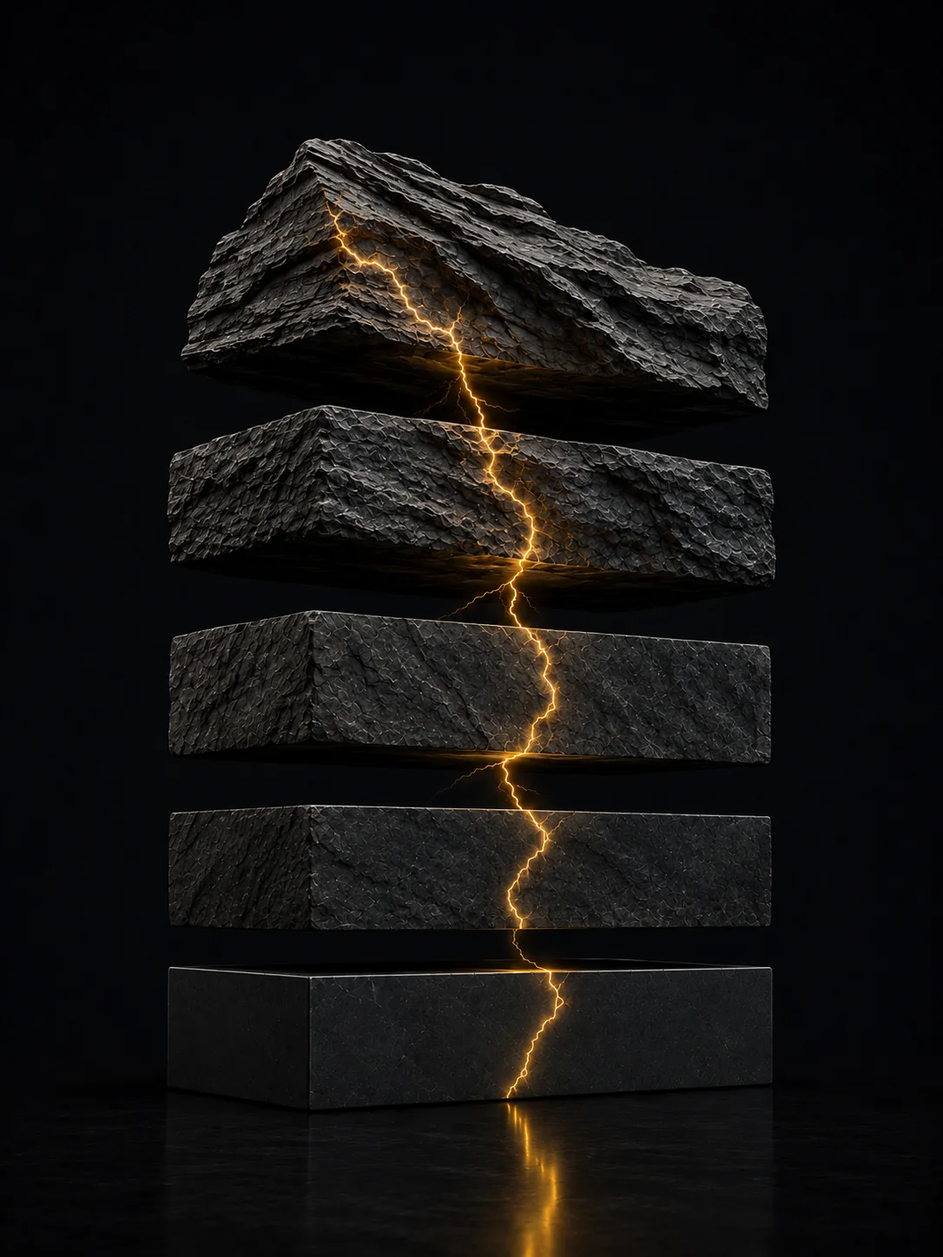
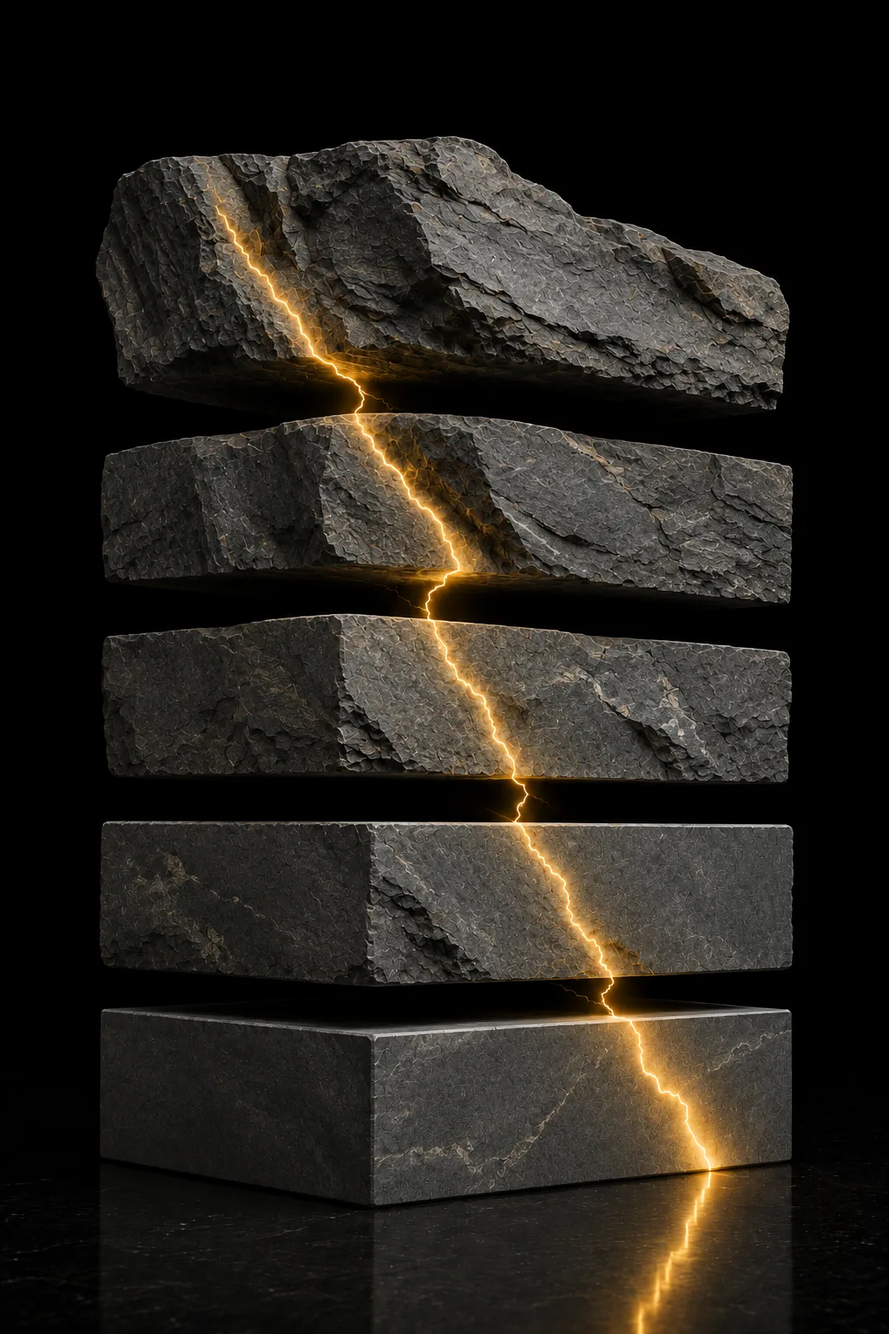
Заменить схему метода и кадр первого экрана, убрать белые уголки
Две схемы grounds.svg и loops.svg заменены одним кадром method-map.webp:
«Путь одного решения» сверху, «Постоянный поток» и «Контур проверки»
снизу. Текстовый эквивалент больше не подменяет картинку на узких
экранах, а лежит в спойлере — кадр показан на любой ширине.

У исходника скруглённые углы радиусом 10px на белом листе, поэтому за
дугой оставались четыре белых пятна 10×10, и на чёрной странице они
читались как брак. Кадр пересобран из исходника, по 20px в каждом углу
перерисованы аналитически: граница скруглённого прямоугольника, кромка
38/43/49 шириной 1px, дальше поле карточки, снаружи дуги альфа 0.
Двадцать, а не десять, потому что JPEG даёт звон вокруг резкой границы
белого и тёмного ещё на 4-6px внутрь. Замер: все четыре угла alpha 0,
самый светлый видимый пиксель в углу 44-48 — это ровно кромка.

Кадр первого экрана заменён новой генерацией 1024×1536: те же пять плит
и золотая трещина, но полированный низ и отражение проработаны сильнее.
Пропорция ровно 2/3, совпадает с aspect-ratio на .hero-visual. Кайма
кадра измерена по восьми точкам и даёт ровно 0/0/0, поэтому --graphite
опущен до чистого чёрного: прежние 3/4/7 давали по границе кадра еле
заметную рамку.

diff --git a/index.html b/index.html
@@ -31,7 +31,7 @@
      телефоне красит свою полосу вокруг страницы, и расхождение видно как
      кант другого оттенка. 10.08.2026 обновлено вместе с переменной,
      прежнее значение: #0E0F11. -->
-<meta name="theme-color" content="#0C0B0D">
+<meta name="theme-color" content="#000000">
 <link rel="stylesheet" href="styles.css">
 </head>
 <body>
@@ -159,24 +159,26 @@
       04 Доказательство — Оставляем то, что работает. Усиливаем эффект.
       05 Стандартизация — Превращаем в модуль. Масштабируем как стандарт. -->
  <div class="hero-visual">
-   <!-- 14.08.2026, замена файла первого экрана по решению владельца. Кадр
-        вертикальный, 1086×1448 — ровно 3:4 (прежний файл был 1122×1402, 4:5,
-        поэтому aspect-ratio у .hero-visual переставлен вместе с картинкой).
-        Фон измерен по восьми зонам (четыре угла, центры сверху и снизу, оба
-        боковых края) уже после сжатия в webp: углы дают 2/2/5 … 4/4/5, боковые
-        края 3/5/7 … 4/6/8, вверху по центру 3/5/8. Виньетки нет, но фон и не
-        ровный: между углом и боковым краем расходится примерно на 4 из 255.
-        Важное отличие от прежнего файла: он совпадал с --graphite страницы
-        (12/11/13) до половины единицы, и граница кадра не читалась вовсе.
-        Новый темнее фона страницы примерно на 8–10 из 255, поэтому кадр
-        виден на странице тёмным прямоугольником. Решение по этому расхождению
-        за владельцем: либо страница подгоняется под кадр (как 10.08.2026,
-        --graphite опускается примерно до 030305), либо краям кадра
-        возвращается растворение маской. До решения не трогается ни то, ни
-        другое.
+   <!-- 15.08.2026, замена файла первого экрана по решению владельца. Кадр
+        вертикальный, 1024×1536 — ровно 2:3 (прежний файл был 1086×1448, 3:4,
+        поэтому aspect-ratio у .hero-visual переставлен вместе с картинкой; он
+        задан в трёх местах styles.css, менять надо все три).
+        Фон измерен по восьми зонам после сжатия в webp: семь точек каймы —
+        четыре угла, центр сверху, оба боковых края — дают ровно 0/0/0, без
+        расхождения между углом и краем. Восьмая, центр снизу, приходится на
+        отражение (31/33/30) и в среднее не идёт. Это первый файл с идеально
+        ровным фоном: у прежнего между углом и краем расходилось на 4 из 255.
+        Поэтому --graphite страницы опущен до чистого чёрного — вопрос, который
+        14.08.2026 оставался за владельцем, закрыт в пользу подгонки страницы
+        под кадр, а не растворения краёв маской.
         Снизу поля нет: отражение на полу доходит до последней строки файла,
         поэтому маска нижнего края у .hero-visual img остаётся нужна и рамку
         шире кадра ставить по-прежнему нельзя.
+        17.08.2026 кадр заменён на новую генерацию владельца: те же пять плит
+        и золотая трещина, но полированный низ и отражение проработаны сильнее.
+        1024×1536, webp q83, 173 КБ. Пропорция ровно 2/3 — совпадает с
+        aspect-ratio на .hero-visual, подгонять ничего не пришлось. Фон краёв
+        0/0/0 … 2/2/2, чернее прежнего, --graphite менять не нужно.
         width/height здесь — размеры файла, они держат место до загрузки;
         видимая пропорция задана aspect-ratio на .hero-visual.
         Прежние генерации сохранены рядом: hero-layers-v1.webp (слои-фильтры),
@@ -184,8 +186,10 @@
         hero-layers-v4.webp (четыре бруска с золотой трещиной, стояла
         10.08.2026), hero-layers-v5.webp (те же пять плит, но без пола и без
         отражения, стояла 10.08.2026), hero-layers-v6.webp (пять плит с полом
-        и отражением, 1122×1402, стояла с 10.08.2026 по 14.08.2026). -->
-   <img src="assets/hero-layers.webp" width="1086" height="1448"
+        и отражением, 1122×1402, стояла с 10.08.2026 по 14.08.2026),
+        hero-layers-v7.webp (1086×1448, стояла 14-15.08.2026),
+        hero-layers-v8.webp (1024×1536, стояла 15-17.08.2026). -->
+   <img src="assets/hero-layers.webp" width="1024" height="1536"
         alt="Пять каменных плит, разведённых по вертикали над отражающим полом: нижние гладкие и точные, верхняя рваная и необработанная, сквозь все проходит светящаяся золотая трещина и продолжается отражением на полу">
  </div>
 </section>
@@ -503,41 +507,79 @@
        «Сделать результат повторяемым. Результат теста → повторная проверка →
        границы применимости → паттерн → масштаб → стандарт.» -->
 
-  <figure class="scheme">
+  <!-- 14.08.2026, замена по решению владельца. Здесь стояли две отдельные
+       фигуры .scheme: assets/grounds.svg («Путь одного решения» с источниками
+       оснований) и assets/loops.svg («Постоянный поток» и «Контур проверки»).
+       Владелец прислал слайд, в котором обе схемы собраны в один кадр и
+       отрисованы в материале бренд-кейса. Содержание совпадает узел в узел,
+       поэтому это замена, а не третья схема: два кадра с одинаковым смыслом
+       на одном экране читались бы как повтор.
+       Прежние файлы assets/grounds.svg и assets/loops.svg с диска не удалены —
+       лежат рядом на случай возврата, как и прежние генерации первого экрана.
+
+       Кадр несёт собственную рамку (светлая кромка в 1px по краю блоков),
+       поэтому фигура помечена .scheme-map: рамка, подложка и внутреннее поле
+       от .scheme img на ней сняты, иначе получается рамка в рамке.
+
+       17.08.2026 кадр заменён на новую отрисовку владельца (Path of One
+       Decision), 1664×962, webp q86, 76 КБ. Прежний файл сохранён рядом как
+       assets/method-map-v1.webp (1691×930, стоял 14-17.08.2026). Содержание
+       то же узел в узел, поменялись материал и типографика.
+       Фон нового кадра измерен по восьми точкам после сжатия: 20/21/25 …
+       36/40/46 — он светлее чёрной страницы, поэтому кадр читается на ней
+       как отдельная карточка со своим полем, а не сливается с фоном, как
+       прежний (0/0/0 … 5/4/7). Это осознанно оставлено: схема — вставка,
+       её обособленность работает на чтение.
+
+       18.08.2026 убраны белые уголки. Исходник — скруглённый прямоугольник
+       с радиусом 10px на белом листе, поэтому за дугой оставались четыре
+       белых пятна 10×10, и на чёрной странице они читались как брак. Кадр
+       пересобран из исходника (не из webp, чтобы не жать дважды): по 20px
+       в каждом углу перерисованы аналитически — граница скруглённого
+       прямоугольника, кромка 38/43/49 шириной 1px, дальше поле карточки,
+       снаружи дуги альфа 0. Двадцать, а не десять, потому что JPEG-исходник
+       даёт звон вокруг резкой границы белого и тёмного ещё на 4-6px внутрь.
+       Теперь webp с альфой, 77,5 КБ: за дугой видно страницу, чем бы она
+       ни была. Замер в браузере: все четыре угла alpha 0, самый светлый
+       видимый пиксель в углу 44-48 — это ровно кромка, белого нет.
+
+       Текстовый эквивалент прежде показывался вместо схемы на экранах уже
+       999px и на телефоне занимал два экрана подряд — именно его владелец
+       назвал таблицами. Теперь на любой ширине показан кадр, а текст ушёл в
+       спойлер: ничего не потеряно, но экран им не забит. На узкой ширине
+       кадр открывается в полный размер по нажатию — тот же .shot-link, что у
+       снимков таблиц в секции #case. -->
+  <figure class="scheme scheme-map">
     <div class="scheme-wrap">
-      <img src="assets/grounds.svg" alt="Путь одного решения: запрос бизнеса, разрыв в метрике, основания, гипотеза с числом, концепт, артефакт, результат теста. В основания входят данные бизнеса, отзывы и обращения, исследование аудитории, рынок и конкуренты, знания компании, прошлые эксперименты." width="1200" height="540" loading="lazy">
+      <a class="shot-link" href="assets/method-map.webp">
+        <img src="assets/method-map.webp" width="1664" height="962" loading="lazy"
+             alt="Схема метода в двух частях. Сверху «Путь одного решения»: запрос бизнеса, разрыв в метрике, основания, гипотеза с числом, концепт, артефакт, результат теста; в основания входят данные бизнеса, отзывы и обращения, исследование аудитории, рынок и конкуренты, знания компании, прошлые эксперименты. Снизу слева «Постоянный поток»: контент и кампании, дизайн и продакшн, бренд и гайды, типовые задачи. Снизу справа «Контур проверки»: сигнал, гипотеза, артефакт, факт, доказательство, паттерн — и стандарт, который возвращается в работу постоянного потока; неподтверждённая гипотеза возвращается к гипотезе.">
+      </a>
     </div>
-    <div class="scheme-list">
-      <ol class="ladder ladder-flow">
-        <li><b>Запрос бизнеса</b><span>с чем пришли</span></li>
-        <li><b>Разрыв в метрике</b><span>где именно теряем</span></li>
-        <li><b>Основания</b><span>данные бизнеса · отзывы и обращения · исследование аудитории · рынок и конкуренты · знания компании · прошлые эксперименты</span></li>
-        <li><b>Гипотеза с числом</b><span>что изменится и на сколько</span></li>
-        <li><b>Концепт</b><span>способ проверить одну гипотезу</span></li>
-        <li><b>Артефакт</b><span>то, что уходит на живой трафик</span></li>
-        <li><b>Результат теста</b><span>подтвердилось или нет</span></li>
-      </ol>
-    </div>
-    <figcaption>Идея не первый шаг. Сначала — основания: то, на чём решение стоит и что можно предъявить.</figcaption>
+    <figcaption>Идея не первый шаг. Сначала — основания: то, на чём решение стоит и что можно предъявить. И эксперимент существует не ради эксперимента: он либо улучшает постоянный поток, либо показывает, что масштабировать нечего.</figcaption>
+
+    <details class="scheme-text">
+      <summary>Тот же путь текстом</summary>
+      <div class="scheme-list">
+        <ol class="ladder ladder-flow">
+          <li><b>Запрос бизнеса</b><span>с чем пришли</span></li>
+          <li><b>Разрыв в метрике</b><span>где именно теряем</span></li>
+          <li><b>Основания</b><span>данные бизнеса · отзывы и обращения · исследование аудитории · рынок и конкуренты · знания компании · прошлые эксперименты</span></li>
+          <li><b>Гипотеза с числом</b><span>что изменится и на сколько</span></li>
+          <li><b>Концепт</b><span>способ проверить одну гипотезу</span></li>
+          <li><b>Артефакт</b><span>то, что уходит на живой трафик</span></li>
+          <li><b>Результат теста</b><span>подтвердилось или нет</span></li>
+        </ol>
+        <!-- 10.08.2026, владелец: слово «гайды» убрано везде — заменено на «нормы и
+             стандарты» (или «норма» по контексту). Прежняя редакция строки ниже:
+             «...бренд и гайды · типовые задачи.» -->
+        <p class="body-text"><b>Постоянный поток:</b> контент и кампании · дизайн и продакшн · бренд, нормы и стандарты · типовые задачи.</p>
+        <p class="body-text"><b>Контур проверки:</b> сигнал → гипотеза → артефакт → факт → доказательство → паттерн → стандарт.</p>
+        <p class="body-text">Стандарт возвращается в постоянный поток и работает дальше без отдельного решения. Неподтверждённый факт возвращает к гипотезе.</p>
+      </div>
+    </details>
   </figure>
 
-  <!-- ПЕРЕНЕСЕНО 09.08.2026 со второго экрана: владелец сказал, что после
-       уравнения «культура экспериментов = рост» нужна конкретика про
-       человека, а не ещё две схемы. Здесь, среди схем, они на своём месте. -->
-  <figure class="scheme">
-    <div class="scheme-wrap">
-      <img src="assets/loops.svg" alt="Два контура работы: постоянный поток задач слева и контур проверки справа. Подтверждённый результат превращается в стандарт и возвращается в постоянный поток." width="1200" height="580" loading="lazy">
-    </div>
-    <div class="scheme-list">
-      <!-- 10.08.2026, владелец: слово «гайды» убрано везде — заменено на «нормы и
-           стандарты» (или «норма» по контексту). Прежняя редакция строки ниже:
-           «...бренд и гайды · типовые задачи.» -->
-      <p class="body-text"><b>Постоянный поток:</b> контент и кампании · дизайн и продакшн · бренд, нормы и стандарты · типовые задачи.</p>
-      <p class="body-text"><b>Контур проверки:</b> сигнал → гипотеза → артефакт → факт → доказательство → паттерн → стандарт.</p>
-      <p class="body-text">Стандарт возвращается в постоянный поток и работает дальше без отдельного решения. Неподтверждённый факт возвращает к гипотезе.</p>
-    </div>
-    <figcaption>Эксперимент существует не ради эксперимента: он либо улучшает постоянный поток, либо показывает, что масштабировать нечего.</figcaption>
-  </figure>
 
   <!-- Была тезисом этого раздела (золотым моно вверху). Тезис заняла подпись
        владельца под триадой, а фраза слишком сильная, чтобы её потерять:
@@ -1056,6 +1098,7 @@
     ['.cta-mid-line',        14,    -8,   null,   0.50, 'power2.out',      0,         0],
     ['.link-row',            12,    -7,   null,   0.46, 'power2.out',   0.16,         0],
     ['.facet',               18,   -11,   1.04,   0.60, 'power3.out',      0,      0.08],
+    ['.scheme',              26,   -16,   1.02,   0.80, 'power3.out',      0,         0],
     ['.case-media',          26,   -16,   1.03,   0.80, 'power3.out',      0,         0],
     ['.case-body',           16,   -10,   null,   0.55, 'power2.out',   0.08,         0],
     ['.walkthrough',         26,   -16,   1.02,   0.80, 'power3.out',      0,         0],

diff --git a/styles.css b/styles.css
@@ -21,9 +21,16 @@
      единицы, как было с прежним файлом, а в пределах этих четырёх.
      Переменная задаёт ещё шапку, подложки плит и градиенты масок — они
      подхватывают новое значение сами.
-     Прежние значения для отката: #0C0B0D (под hero-layers-v6.webp),
-     до него #0E0F11. */
-  --graphite: #030407;
+     15.08.2026, ещё одна замена кадра: новая генерация 1024×1536 измерена по
+     тем же восьми точкам после сжатия — все семь точек каймы дают 0/0/0, ровно
+     чёрный, без расхождения между углом и боковым краем (восьмая, низ по
+     центру, приходится на отражение и в среднее не идёт). Поэтому переменная
+     опущена до чистого чёрного: прежние 3/4/7 были светлее кадра на 4-7 из 255
+     и давали по границе кадра еле заметную рамку. Побочно градиенты масок
+     нижнего края теперь сходятся с кадром точно, а не в пределах допуска.
+     Прежние значения для отката: #030407 (под hero-layers-v7.webp),
+     #0C0B0D (под hero-layers-v6.webp), до него #0E0F11. */
+  --graphite: #000000;
   --charcoal: #1A1C1F;
   --stone: #2B2E33;
   --slate: #3B3F44;
@@ -417,8 +424,9 @@ main {
   margin: var(--space-6) 0;
 }
 
-/* Схемы-иллюстрации 08.08.2026: assets/grounds.svg (#method) и
-   assets/loops.svg (#system). Рамка и подложка — тот же приём, что у
+/* Схема-иллюстрация в #method. 08.08.2026 их было две — assets/grounds.svg и
+   assets/loops.svg; 14.08.2026 обе заменены одним кадром assets/method-map.webp
+   (модификатор .scheme-map ниже). Рамка и подложка — тот же приём, что у
    .diagram-wrap, чтобы схема без спойлера выглядела частью одной страницы. */
 .scheme {
   margin: var(--space-9) 0;
@@ -444,20 +452,31 @@ main {
   max-width: 60ch;
 }
 
-/* Текстовый эквивалент схем grounds.svg и loops.svg для узких экранов —
-   тот же приём и тот же порог, что у .diagram-wrap/.diagram-list. */
-.scheme-list {
-  display: none;
+/* 14.08.2026: кадр assets/method-map.webp, заменивший обе схемы, несёт
+   собственную светлую кромку и собственные поля внутри блоков. Рамка,
+   подложка и внутреннее поле от .scheme img на нём сняты — иначе выходит
+   рамка в рамке, а тёмная подложка --charcoal светлее самого кадра и
+   проступает по краю полосой. */
+.scheme-map img {
+  background: none;
+  border: 0;
+  padding: 0;
+  max-width: 1200px;
 }
 
-@media (max-width: 999px) {
-  .scheme-wrap {
-    display: none;
-  }
+/* Текстовый эквивалент схемы. До 14.08.2026 он подменял собой картинку на
+   всех ширинах до 999px: схема пряталась, а вместо неё разворачивались семь
+   пунктов лестницы и три абзаца — два экрана подряд на телефоне. Владелец
+   назвал это таблицами и попросил вместо них кадр.
+   Теперь кадр показан на любой ширине, а текст лежит в спойлере: содержание
+   не потеряно и доступно и без картинок, но экран им не занят. Кадр плотный,
+   и на узкой ширине его открывают в полный размер по .shot-link. */
+.scheme-text {
+  margin-top: var(--space-4);
+}
 
-  .scheme-list {
-    display: block;
-  }
+.scheme-text .scheme-list {
+  margin-top: var(--space-4);
 }
 
 /* Лестница «факт → доказательство → паттерн → стандарт» в #system.
@@ -1453,15 +1472,16 @@ details:last-child {
      56% от её же 515. Поэтому предел задан абсолютом с оглядкой на окно:
      600px при контентной ширине 1080px оставляет слева не меньше 460px под
      текст, а 46vw подхватывает узкие окна, где 600px были бы слишком много. */
-  /* 14.08.2026: файл первого экрана заменён на новую генерацию, 1086×1448 —
-     это ровно 3:4, а не 4:5. Пропорция рамки повторяет пропорцию файла по
-     тому же правилу, что записано выше: пока снизу есть отражение, рамку шире
-     кадра ставить нельзя, иначе cover срежет низ и отражение пропадёт. При
-     4:5 срез составил бы по 3,1% сверху и снизу — как раз по отражению,
-     которое доходит до последней строки файла. Прежнее значение для отката:
-     aspect-ratio: 4 / 5 (оно было подобрано под hero-layers.webp 1122×1402,
-     тот файл сохранён рядом как hero-layers-v6.webp). */
-  aspect-ratio: 3 / 4;
+  /* 15.08.2026: файл первого экрана снова заменён, теперь 1024×1536 — ровно
+     2:3. Пропорция рамки повторяет пропорцию файла по тому же правилу, что
+     записано выше: пока снизу есть отражение, рамку шире кадра ставить нельзя,
+     иначе cover срежет низ и отражение пропадёт. Оставь здесь прежние 3:4 —
+     срез составил бы по 5,6% сверху и снизу, то есть отражение на полу
+     потерялось бы целиком. Значение продублировано ещё в двух медиазапросах
+     ниже; менять надо все три сразу.
+     Прежние значения для отката: aspect-ratio: 3 / 4 (под hero-layers-v7.webp,
+     1086×1448), до него 4 / 5 (под hero-layers-v6.webp, 1122×1402). */
+  aspect-ratio: 2 / 3;
   max-width: min(600px, 46vw);
   /* Подложка обязательна: mix-blend-mode на картинке смешивает её с тем, что
      под ней, а .screen объявлен isolation:isolate и отрезает фон страницы.
@@ -1749,7 +1769,7 @@ details:last-child {
        любой ширине, потому что высоту теперь ограничивает не max-height, а
        ширина строкой выше. */
     /* 14.08.2026: следом за основным правилом — новый файл 3:4. */
-    aspect-ratio: 3 / 4;
+    aspect-ratio: 2 / 3;
     /* Предел ширины из десктопной раскладки здесь снимается. Он задан как
        min(600px, 46vw) и на узком экране считается по второму слагаемому:
        замерено 10.08.2026 на 375px — 46vw дали 172px, и картинка съёжилась
@@ -1829,7 +1849,7 @@ details:last-child {
      ограничение идёт по max-height. */
   .hero-visual {
     /* 14.08.2026: следом за основным правилом — новый файл 3:4. */
-    aspect-ratio: 3 / 4;
+    aspect-ratio: 2 / 3;
     /* 40svh — потолок, а не выбор: при 44svh первый экран занимал 846px при
        высоте окна 812 и кнопки контакта уходили за нижний край, замерено на
        375×812. Ограничение задано через ширину по той же причине, что и в
